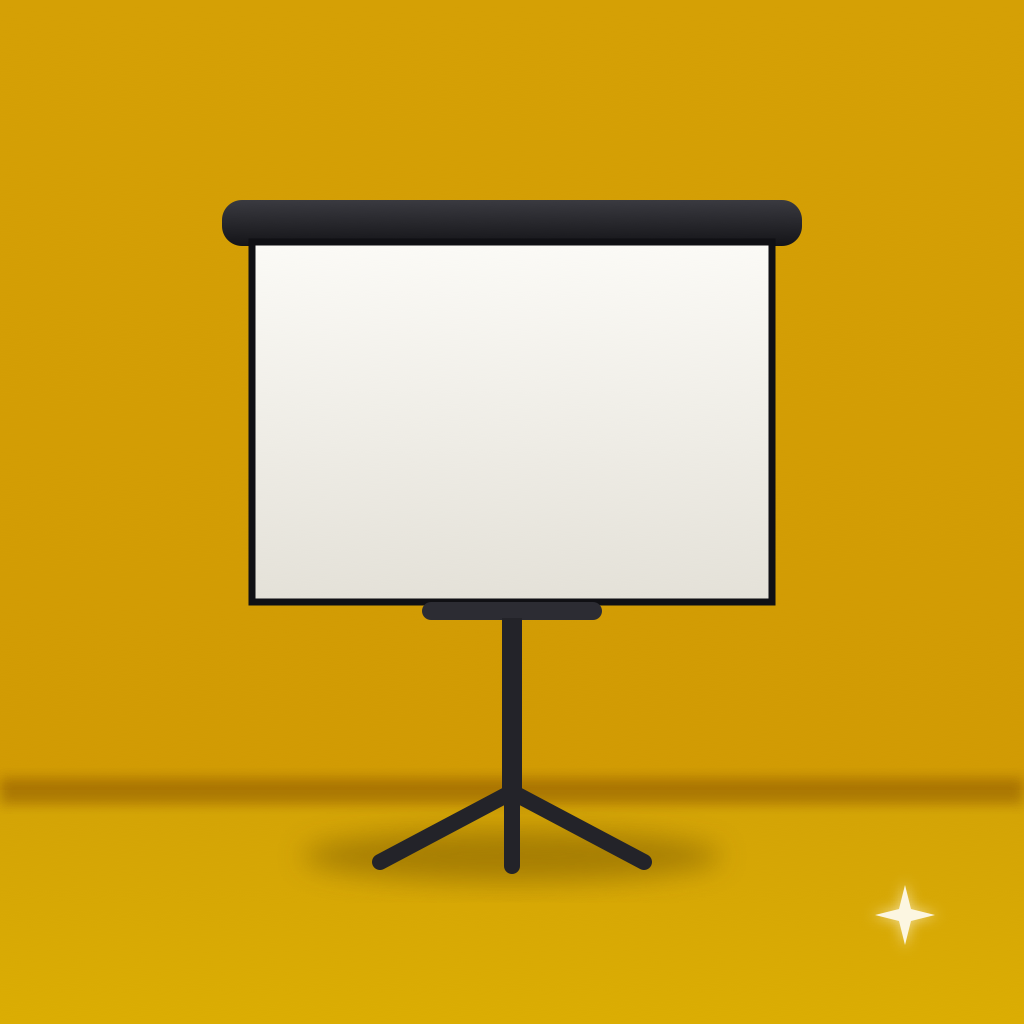
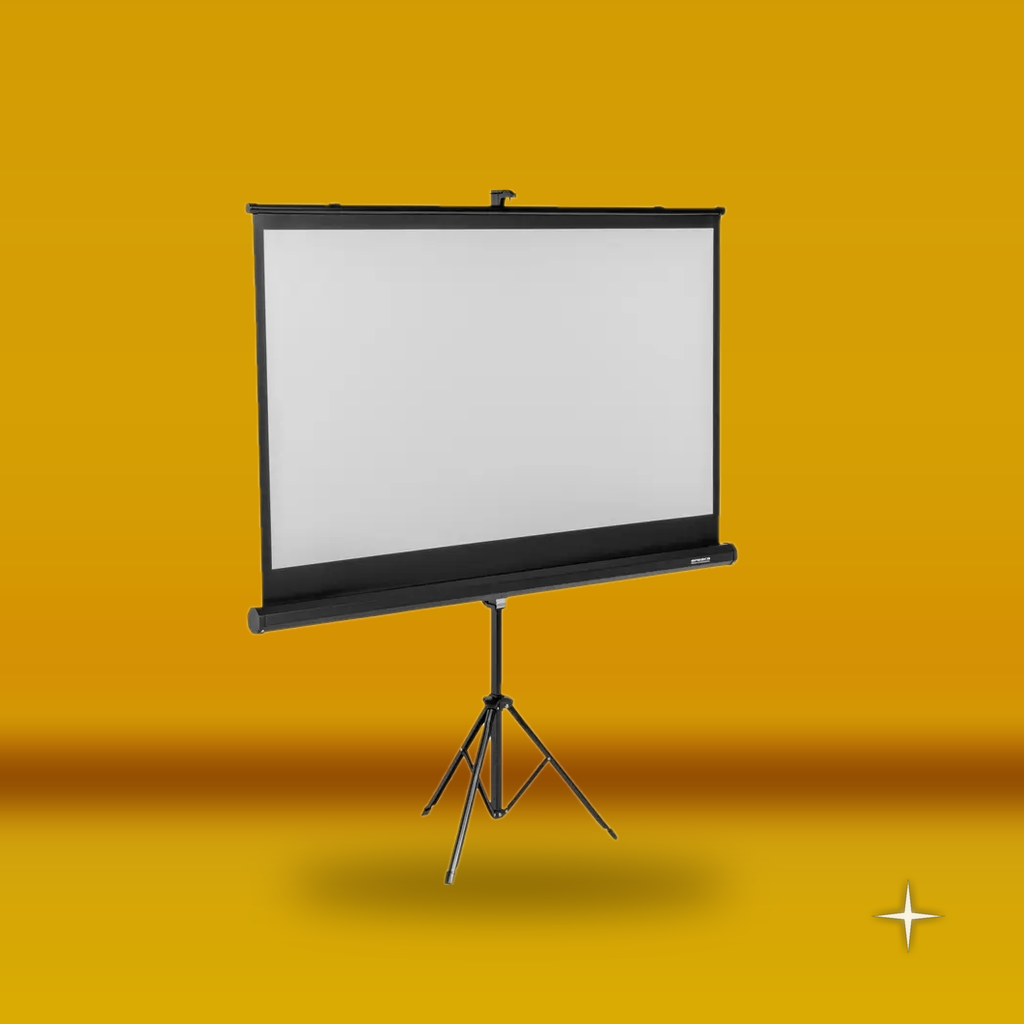
Photo-based lyskæde + lærred images, hide low fog, full product picker in booking step 1
- product-lyskaeder.png/-farvet.png: real bulb extracted from supplier photo
  (tree removed via GrabCut), cloned along a draped cable on the yellow backdrop
- product-laerred.png: real tripod screen photo composited into house style
- Low fog machine hidden until purchased (products.ts + feed seed + /roeg copy 'på vej')
- Booking step 1 now also lists all other equipment (rentals) so preselected
  rental bookings and 'back' navigation never strand users on speakers only
- Stale-cache issue confirmed as root cause of 'laerred_160 viser højtalere':
  fresh browsers preselect correctly; _headers already prevents new HTML caching

Claude-Session: https://claude.ai/code/session_01AEV6j19TfRoXU16SGR88VH

diff --git a/src/app/roeg/page.tsx b/src/app/roeg/page.tsx
@@ -7,7 +7,7 @@ import CategoryProductGrid from "@/components/CategoryProductGrid";
 export const metadata: Metadata = {
   title: "Lej Røgmaskine & Low Fog København | Røggulv med is | Lejhøjtaler.dk",
   description:
-    "Lej røg til festen i København: klassisk røgmaskine fra 245 kr eller low fog-maskine der laver et gulv af røg med is — 'dansen på skyer'-effekten til bryllup og fest. Betal ved afhentning.",
+    "Lej røg til festen i København: klassisk røgmaskine fra 245 kr inkl. røgvæske. Low fog-maskine (røggulv med is) er på vej. Betal ved afhentning.",
   keywords: [
     "lej røgmaskine",
     "low fog maskine leje",
@@ -21,7 +21,7 @@ export const metadata: Metadata = {
   openGraph: {
     title: "Lej Røgmaskine & Low Fog København | Lejhøjtaler.dk",
     description:
-      "Klassisk røgmaskine fra 245 kr eller low fog-røggulv til bryllup og fest. Book online.",
+      "Klassisk røgmaskine fra 245 kr inkl. røgvæske. Book online.",
     url: "https://lejhojtaler.dk/roeg",
     siteName: "Lejhøjtaler.dk",
     locale: "da_DK",
@@ -66,8 +66,8 @@ export default function RoegPage() {
             </span>
           </h1>
           <p className="mx-auto mt-6 max-w-md text-lg text-white/60">
-            Klassisk røgmaskine til lysshowet — eller low fog-maskinen, der lægger
-            et flot tæppe af røg hen over gulvet. Perfekt til brudevals og dansegulv.
+            Klassisk røgmaskine der fylder rummet og gør lysshowet 10x federe.
+            Inkl. røgvæske og fjernbetjening — klar på 5 minutter.
           </p>
           <a
             href="#produkter"
@@ -85,16 +85,13 @@ export default function RoegPage() {
           </h2>
           <p className="mx-auto mb-12 max-w-2xl text-center text-white/50">
             Den klassiske røgmaskine fylder rummet og gør lysshowet 10x federe.
-            Low fog-maskinen bruger is, så røgen lægger sig som et gulvtæppe af
-            skyer uden at stige til vejrs — kendt fra bryllupper og musikvideoer.
+            Perfekt sammen med lysbar eller discokugle.
           </p>
 
-          <CategoryProductGrid
-            items={[
-              { id: "rog", href: "/roegmaskine" },
-              { id: "low_fog", tag: "Ny" },
-            ]}
-          />
+          <CategoryProductGrid items={[{ id: "rog", href: "/roegmaskine" }]} />
+          <p className="mt-8 text-center text-sm text-white/40">
+            Low fog-maskine (røggulv med is — &quot;dansen på skyer&quot;) er på vej. Ring 50 15 07 31 og hør nærmere.
+          </p>
         </section>
 
         {/* Upsell */}

diff --git a/src/lib/products.ts b/src/lib/products.ts
@@ -240,7 +240,7 @@ export const rentalProducts: RentalProduct[] = [
   { id: "haandholdt_mikrofon", category: "av", price: 95, image: "/images/product-mikrofon.png", name_da: "Håndholdt mikrofon (kabel)", name_en: "Handheld microphone (wired)", desc_da: "Almindelig håndholdt mikrofon med kabel — til taler og sang.", desc_en: "Standard wired handheld microphone — for speeches and vocals." },
   { id: "laerred_160", category: "av", price: 195, image: "/images/product-laerred.png", name_da: "Lærred 160 cm", name_en: "Projector screen 160 cm", desc_da: "160 cm lærred på stativ — perfekt til projektor.", desc_en: "160 cm projector screen on stand." },
   { id: "projektor_pro", category: "av", price: 795, image: "/images/product-projektor.png", name_da: "Projektor Pro (5000 lumen)", name_en: "Projector Pro (5000 lumen)", desc_da: "Kraftig 5000 lumen projektor — skarp selv i dagslys.", desc_en: "Powerful 5000 lumen projector — sharp even in daylight." },
-  { id: "low_fog", category: "roeg", price: 295, image: "/images/product-lowfog.png", name_da: "Low fog-maskine (røggulv)", name_en: "Low fog machine (fog floor)", desc_da: "Laver et flot gulv af røg vha. is — 'dansen på skyer'-effekten fra bryllupper og musikvideoer.", desc_en: "Creates a floor of low-lying fog using ice — the 'dancing on clouds' effect." },
+  { id: "low_fog", category: "roeg", price: 295, hidden: true, image: "/images/product-lowfog.png", name_da: "Low fog-maskine (røggulv)", name_en: "Low fog machine (fog floor)", desc_da: "Laver et flot gulv af røg vha. is — 'dansen på skyer'-effekten fra bryllupper og musikvideoer.", desc_en: "Creates a floor of low-lying fog using ice — the 'dancing on clouds' effect." },
 ];
 
 /** Navigation categories — single source of truth used by BurgerMenu and admin */
@@ -274,8 +274,8 @@ export const NAV_CATEGORIES: NavCategory[] = [
     title: "Røg",
     href: "/roeg",
     links: [
+      { href: "/roeg", label: "Røg til fest" },
       { href: "/roegmaskine", label: "Røgmaskine" },
-      { href: "/roeg", label: "Low fog (røggulv)" },
     ],
   },
   {

diff --git a/src/components/BookingFlow.tsx b/src/components/BookingFlow.tsx
@@ -834,6 +834,35 @@ export default function BookingFlow({ locale = "da" }: { locale?: Locale }) {
               </div>
               <p className="text-center text-xs text-white/30">{s.effectsOnlyDesc}</p>
             </div>
+
+            {/* Andet udstyr (lys, AV m.m.) — så alle produkter kan vælges direkte */}
+            {rentalProducts.length > 0 && (
+              <div className="space-y-2 pt-2">
+                <p className="text-center text-sm text-white/40">{s.otherEquipmentTitle}</p>
+                <div className="grid grid-cols-2 gap-3">
+                  {rentalProducts.map((rp) => (
+                    <button
+                      key={rp.id}
+                      onClick={() => {
+                        setSpeaker(rp.id);
+                        nextStep();
+                      }}
+                      className={`rounded-xl border p-3 text-center transition active:scale-[0.98] ${
+                        speaker === rp.id
+                          ? "border-brand-500 bg-brand-500/10"
+                          : "border-white/15 border-dashed hover:border-brand-500/40 hover:bg-white/[0.02]"
+                      }`}
+                    >
+                      <img src={rp.image} alt={locale === "en" ? rp.name_en : rp.name_da} className="mx-auto h-16 w-16 object-contain rounded-lg" />
+                      <p className="mt-2 text-sm font-medium text-white/70">
+                        {locale === "en" ? rp.name_en : rp.name_da}
+                      </p>
+                      <p className="text-sm text-brand-400">{rp.price},-</p>
+                    </button>
+                  ))}
+                </div>
+              </div>
+            )}
           </div>
         )}
 

diff --git a/functions/api/_lib/channels.ts b/functions/api/_lib/channels.ts
@@ -336,7 +336,7 @@ const DEFAULT_CATALOG: CatalogRaw = {
     { id: "haandholdt_mikrofon", category: "av", price: 95, image: "/images/product-mikrofon.png", name_da: "Håndholdt mikrofon (kabel)", desc_da: "Almindelig håndholdt mikrofon med kabel." },
     { id: "laerred_160", category: "av", price: 195, image: "/images/product-laerred.png", name_da: "Lærred 160 cm", desc_da: "160 cm lærred på stativ." },
     { id: "projektor_pro", category: "av", price: 795, image: "/images/product-projektor.png", name_da: "Projektor Pro (5000 lumen)", desc_da: "Kraftig 5000 lumen projektor — skarp i dagslys." },
-    { id: "low_fog", category: "roeg", price: 295, image: "/images/product-lowfog.png", name_da: "Low fog-maskine", desc_da: "Røggulv med is." },
+    { id: "low_fog", category: "roeg", price: 295, hidden: true, image: "/images/product-lowfog.png", name_da: "Low fog-maskine", desc_da: "Røggulv med is." },
   ],
   addons: [
     { id: "lys", price: 495, image: "/images/product-lys.png", da: { label: "Lys-pakke", desc: "2 farvede lamper + centereffekt." } },

diff --git a/src/lib/i18n.ts b/src/lib/i18n.ts
@@ -35,6 +35,7 @@ export const t = {
       effectsOnlyTitle: "Uden højtalere?",
       effectsOnlyDesc: "Lej kun lys og/eller røgmaskine",
       effectsOnlyLabel: "Kun effekter",
+      otherEquipmentTitle: "Andet udstyr — lys, AV & effekter",
       fromShort: "Fra",
       batteryBadge: "Batteri — ingen strøm nødvendig",
       pickup: "Afhentning",
@@ -199,6 +200,7 @@ export const t = {
       effectsOnlyTitle: "Without speakers?",
       effectsOnlyDesc: "Rent just lights and/or fog machine",
       effectsOnlyLabel: "Effects only",
+      otherEquipmentTitle: "Other equipment — lights, AV & effects",
       fromShort: "From",
       batteryBadge: "Battery — no power needed",
       pickup: "Pickup",

diff --git a/src/__tests__/BookingFlow.test.tsx b/src/__tests__/BookingFlow.test.tsx
@@ -33,9 +33,9 @@ describe("BookingFlow - Step 1: Speaker selection", () => {
   it("shows prices for all speakers", () => {
     render(<BookingFlow />);
     // Original prices shown as strikethrough during summer sale, or as main price outside sale
-    expect(screen.getByText("395,-")).toBeInTheDocument();
-    expect(screen.getByText("595,-")).toBeInTheDocument();
-    expect(screen.getByText("695,-")).toBeInTheDocument();
+    expect(screen.getAllByText("395,-").length).toBeGreaterThan(0);
+    expect(screen.getAllByText("595,-").length).toBeGreaterThan(0);
+    expect(screen.getAllByText("695,-").length).toBeGreaterThan(0);
   });
 
   it("shows effects-only section with lys and røg", () => {
